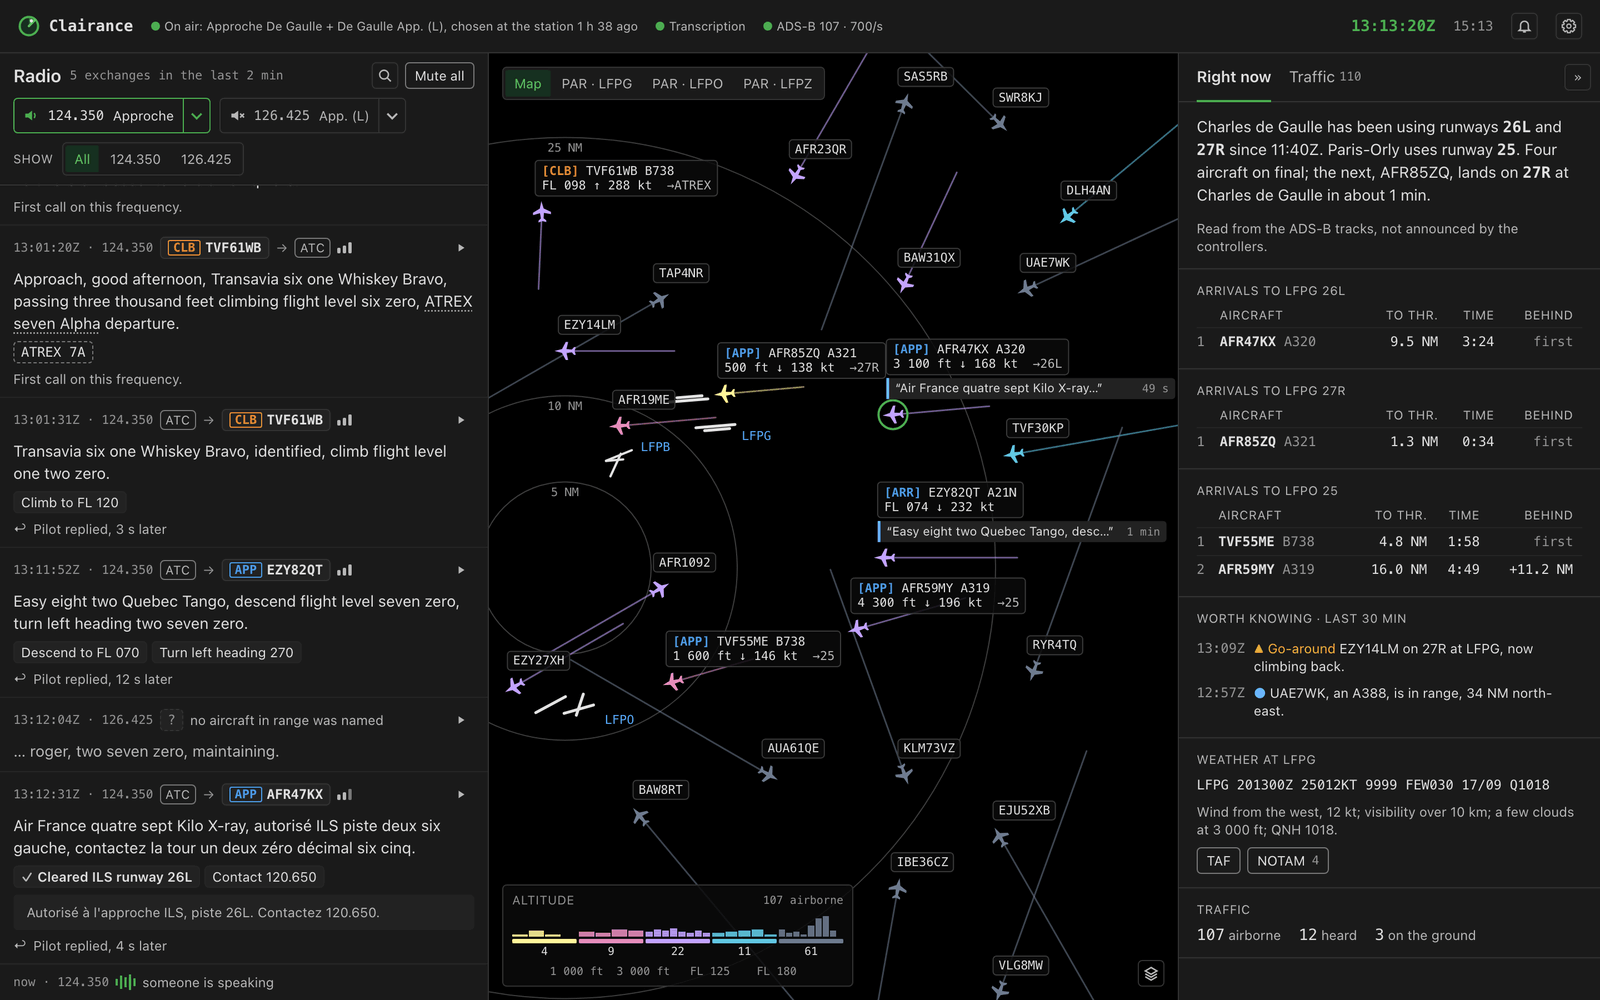
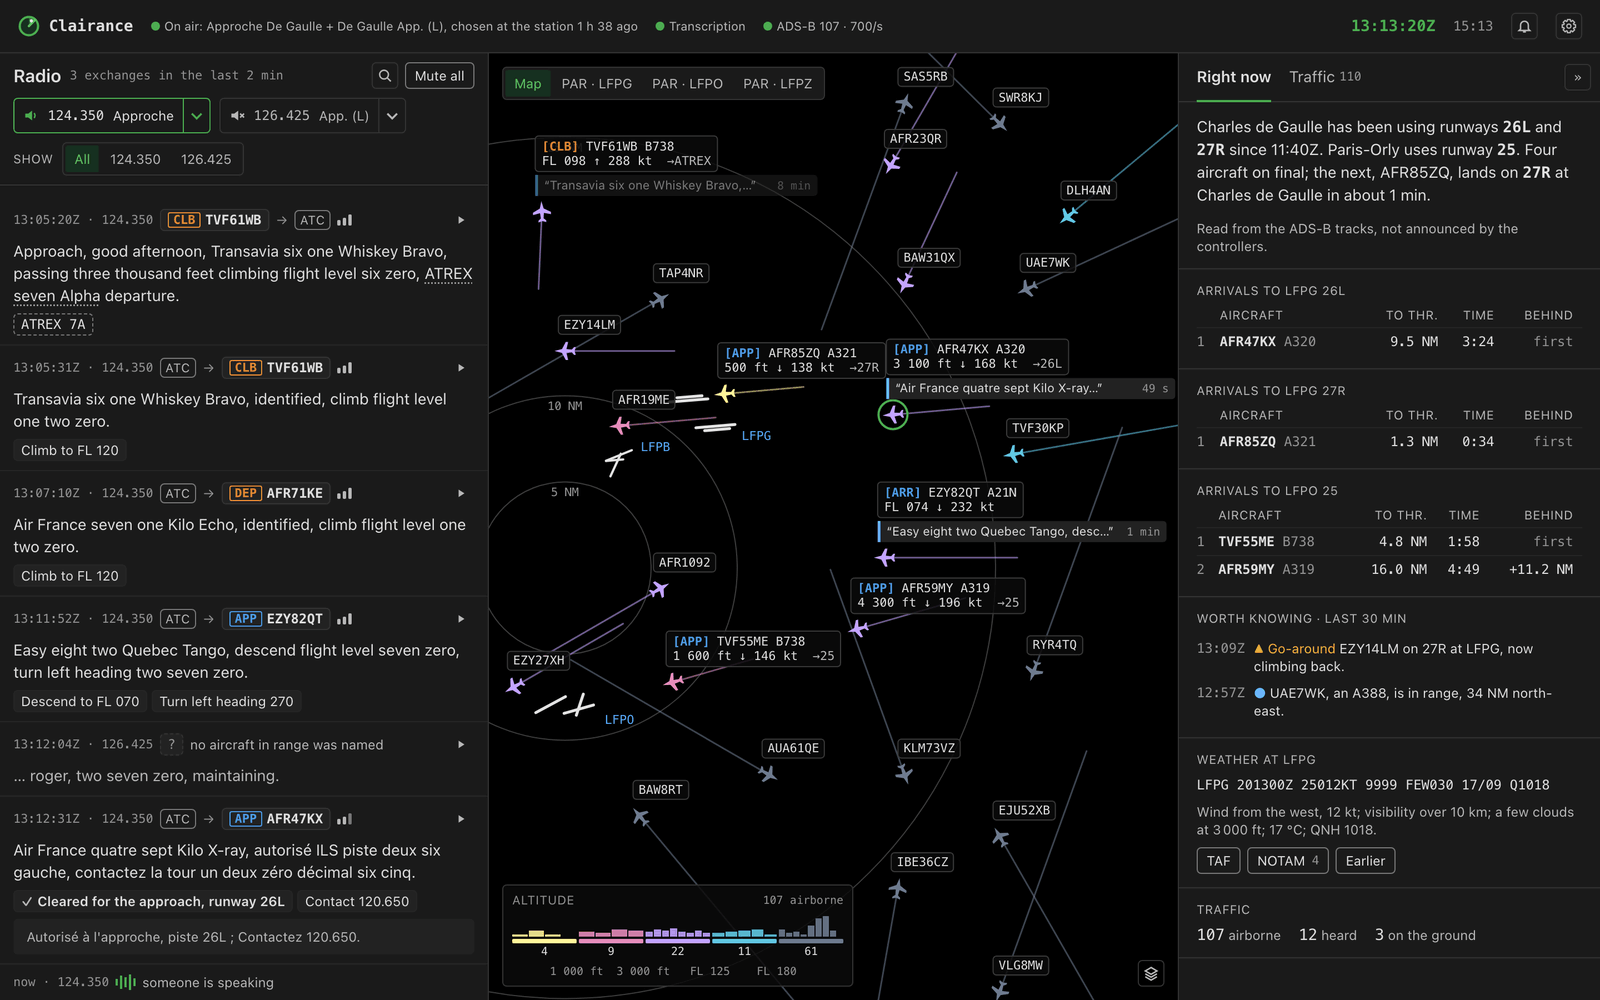
design: the README's images show only what the product writes
No "pilot replied" line nor "first call" (13/10 screens only); the
approach clearance as explain.go words it, the French joined by " ; ";
the story's lines as store/story.js tells them; the weather as
now/metar-plain.js reads it; the labels and message tags of the aircraft
heard in the last ten minutes, as the zoom tiers want; the phone shows
Radio and Right now. Every fixed text checked against www/ and explain.go.

diff --git a/tools/design/readme.py b/tools/design/readme.py
@@ -391,8 +391,7 @@ def traffic(selected=None):
     add('AFR59MY', 'A319', 'arr', 'APP', la, lo, 4300, '↓', 196, 254, show='full', field=('→25', ''))
     # departures
     add('TVF61WB', 'B738', 'dep', 'CLB', 49.205, 2.326, 9800, '↑', 288, 357, show='full', field=('→ATREX', ''),
-        trail=[(49.13, 2.321)],
-        )
+        trail=[(49.13, 2.321)], tag=('Transavia six one Whiskey Bravo, identified, climb flight level one two zero', '8 min', .55))
     add('AFR71KE', 'A320', 'dep', 'DEP', 48.79, 2.198, 9000, '↑', 305, 152, show='full' if selected == 'AFR71KE' else 'cs',
         field=('→OKASI', '+1'), selected=selected == 'AFR71KE',
         trail=None if selected == 'AFR71KE' else [(48.971, 2.112), (48.8185, 2.1867)])
@@ -400,7 +399,7 @@ def traffic(selected=None):
     add('EZY27XH', 'A320', 'dep', 'CLB', 48.745, 2.285, 3900, '↑', 220, 240)
     # passing through, from low to cruise
     for cs, typ, la, lo, ft, tr, kt, hdg in (
-            ('AFR23QR', 'A320', 49.24, 2.70, 11500, '↓', 280, 210), ('TVF30KP', 'B738', 48.97, 3.02, 13800, '↓', 300, 260),
+            ('AFR23QR', 'A320', 49.25, 2.84, 11500, '↓', 280, 210), ('TVF30KP', 'B738', 48.97, 3.02, 13800, '↓', 300, 260),
             ('DLH4AN', 'A20N', 49.20, 3.10, 16500, '↓', 310, 230), ('KLM73VZ', 'E190', 48.66, 2.86, 24000, '↑', 380, 160),
             ('RYR4TQ', 'B38M', 48.76, 3.05, 37000, '↔', 452, 200), ('SWR8KJ', 'A20N', 49.29, 3.00, 35000, '↔', 448, 135),
             ('BAW8RT', 'A320', 48.62, 2.47, 33000, '↔', 441, 320), ('UAE7WK', 'A388', 49.13, 3.04, 38000, '↔', 486, 245),
@@ -414,34 +413,34 @@ def traffic(selected=None):
 
 
 def thread_html(selected=None):
+    """The thread as the product draws it (www/index.html): no "pilot replied" line nor "first call" (13/10 screens only),
+    the instructions as internal/transcription/phraseology/explain.go words them, the French ones joined by " ; "."""
     sel = lambda cs: ' is-selected' if cs == selected else ''
     chip = E.chip
     W = E.WHEN
+    head = E.threadhead().replace('5 exchanges in the last 2 min', '3 exchanges in the last 2 min')
     return f'''<section class="cl-app__thread" aria-label="Radio">
-{E.threadhead()}
+{head}
 <div class="cl-app__bottom">
-<article class="cl-exchange{sel('AFR47KX')}">
-  <div class="cl-exchange__head">{W('12:58:31Z · 126.425')}{chip('ARR', 'arr', 'AFR47KX', sel('AFR47KX'))}<span class="cl-exchange__to">→</span><span class="cl-chip cl-chip--atc">ATC</span>{E.STR3}{E.PLAYB}</div>
-  <p class="cl-exchange__text" lang="fr">De Gaulle bonjour, Air France quatre sept Kilo X-ray, niveau un huit zéro en descente vers un cinq zéro.</p>
-  <div class="cl-exchange__explain">First call on this frequency.</div>
-</article>
 <article class="cl-exchange{sel('TVF61WB')}">
-  <div class="cl-exchange__head">{W('13:01:20Z · 124.350')}{chip('CLB', 'dep', 'TVF61WB', sel('TVF61WB'))}<span class="cl-exchange__to">→</span><span class="cl-chip cl-chip--atc">ATC</span>{E.STR3}{E.PLAYB}</div>
+  <div class="cl-exchange__head">{W('13:05:20Z · 124.350')}{chip('CLB', 'dep', 'TVF61WB', sel('TVF61WB'))}<span class="cl-exchange__to">→</span><span class="cl-chip cl-chip--atc">ATC</span>{E.STR3}{E.PLAYB}</div>
   <p class="cl-exchange__text">Approach, good afternoon, Transavia six one Whiskey Bravo, passing three thousand feet climbing flight level six zero, <span class="is-place">ATREX seven Alpha</span> departure.</p>
   <div class="cl-exchange__instr"><button class="cl-chip cl-chip--place">ATREX 7A</button></div>
-  <div class="cl-exchange__explain">First call on this frequency.</div>
 </article>
 <article class="cl-exchange{sel('TVF61WB')}">
-  <div class="cl-exchange__head">{W('13:01:31Z · 124.350')}<span class="cl-chip cl-chip--atc">ATC</span><span class="cl-exchange__to">→</span>{chip('CLB', 'dep', 'TVF61WB', sel('TVF61WB'))}{E.STR3}{E.PLAYB}</div>
+  <div class="cl-exchange__head">{W('13:05:31Z · 124.350')}<span class="cl-chip cl-chip--atc">ATC</span><span class="cl-exchange__to">→</span>{chip('CLB', 'dep', 'TVF61WB', sel('TVF61WB'))}{E.STR3}{E.PLAYB}</div>
   <p class="cl-exchange__text">Transavia six one Whiskey Bravo, identified, climb flight level one two zero.</p>
   <div class="cl-exchange__instr"><span class="cl-chip cl-chip--instr">Climb to FL 120</span></div>
-  <div class="cl-exchange__reply"><span>↩</span><span>Pilot replied, 3 s later</span></div>
+</article>
+<article class="cl-exchange{sel('AFR71KE')}">
+  <div class="cl-exchange__head">{W('13:07:10Z · 124.350')}<span class="cl-chip cl-chip--atc">ATC</span><span class="cl-exchange__to">→</span>{chip('DEP', 'dep', 'AFR71KE', sel('AFR71KE'))}{E.STR3}{E.PLAYB}</div>
+  <p class="cl-exchange__text">Air France seven one Kilo Echo, identified, climb flight level one two zero.</p>
+  <div class="cl-exchange__instr"><span class="cl-chip cl-chip--instr">Climb to FL 120</span></div>
 </article>
 <article class="cl-exchange{sel('EZY82QT')}">
   <div class="cl-exchange__head">{W('13:11:52Z · 124.350')}<span class="cl-chip cl-chip--atc">ATC</span><span class="cl-exchange__to">→</span>{chip('APP', 'arr', 'EZY82QT', sel('EZY82QT'))}{E.STR3}{E.PLAYB}</div>
   <p class="cl-exchange__text">Easy eight two Quebec Tango, descend flight level seven zero, turn left heading two seven zero.</p>
   <div class="cl-exchange__instr"><span class="cl-chip cl-chip--instr">Descend to FL 070</span><span class="cl-chip cl-chip--instr">Turn left heading 270</span></div>
-  <div class="cl-exchange__reply"><span>↩</span><span>Pilot replied, 12 s later</span></div>
 </article>
 <article class="cl-exchange is-unmatched">
   <div class="cl-exchange__head">{W('13:12:04Z · 126.425')}<span class="cl-chip cl-chip--callsign is-away">?</span><span class="cl-plain">no aircraft in range was named</span>{E.PLAYB}</div>
@@ -450,9 +449,8 @@ def thread_html(selected=None):
 <article class="cl-exchange{sel('AFR47KX')}" lang="fr">
   <div class="cl-exchange__head" lang="en">{W('13:12:31Z · 124.350')}<span class="cl-chip cl-chip--atc">ATC</span><span class="cl-exchange__to">→</span>{chip('APP', 'arr', 'AFR47KX', sel('AFR47KX'))}{E.STR2}{E.PLAYB}</div>
   <p class="cl-exchange__text">Air France quatre sept Kilo X-ray, autorisé ILS piste deux six gauche, contactez la tour un deux zéro décimal six cinq.</p>
-  <div class="cl-exchange__instr" lang="en"><span class="cl-chip cl-chip--instr cl-chip--clearance">Cleared ILS runway 26L</span><span class="cl-chip cl-chip--instr">Contact 120.650</span></div>
-  <div class="cl-exchange__explain cl-exchange__explain--boxed">Autorisé à l'approche ILS, piste 26L. Contactez 120.650.</div>
-  <div class="cl-exchange__reply" lang="en"><span>↩</span><span>Pilot replied, 4 s later</span></div>
+  <div class="cl-exchange__instr" lang="en"><span class="cl-chip cl-chip--instr cl-chip--clearance">Cleared for the approach, runway 26L</span><span class="cl-chip cl-chip--instr">Contact 120.650</span></div>
+  <div class="cl-exchange__explain cl-exchange__explain--boxed">Autorisé à l'approche, piste 26L ; Contactez 120.650.</div>
 </article>
 <article class="cl-exchange is-live">
   <div class="cl-exchange__head">{W('now · 124.350')}<span class="cl-level"><i style="height:6px"></i><i style="height:12px"></i><i style="height:9px"></i><i style="height:14px"></i><i style="height:7px"></i></span><span class="cl-plain">someone is speaking</span></div>
@@ -477,7 +475,7 @@ def column_now():
 <div class="cl-section"><span class="cl-label">Arrivals to LFPG 27R</span>{seq_table([('AFR85ZQ', 'A321', '1.3 NM', '0:34', 'first')])}</div>
 <div class="cl-section"><span class="cl-label">Arrivals to LFPO 25</span>{seq_table([('TVF55ME', 'B738', '4.8 NM', '1:58', 'first'), ('AFR59MY', 'A319', '16.0 NM', '4:49', '+11.2 NM')])}</div>
 <div class="cl-section"><span class="cl-label">Worth knowing · last 30 min</span><ul class="cl-events"><li><time>13:09Z</time><span><span class="cl-warn">▲ Go-around</span> EZY14LM on 27R at LFPG, now climbing back.</span></li><li><time>12:57Z</time><span><span class="is-info">●</span> UAE7WK, an A388, is in range, 34 NM north-east.</span></li></ul></div>
-<div class="cl-section"><span class="cl-label">Weather at LFPG</span><span class="cl-metar">LFPG 201300Z 25012KT 9999 FEW030 17/09 Q1018</span><span class="cl-metar__plain">Wind from the west, 12 kt; visibility over 10 km; a few clouds at 3 000 ft; QNH 1018.</span><span class="cl-row"><button class="cl-btn">TAF</button><button class="cl-btn">NOTAM <span class="cl-tabs__count">4</span></button></span></div>
+<div class="cl-section"><span class="cl-label">Weather at LFPG</span><span class="cl-metar">LFPG 201300Z 25012KT 9999 FEW030 17/09 Q1018</span><span class="cl-metar__plain">Wind from the west, 12\u00a0kt; visibility over 10\u00a0km; a few clouds at 3\u202f000\u00a0ft; 17\u00a0°C; QNH 1018.</span><span class="cl-row"><button class="cl-btn">TAF</button><button class="cl-btn">NOTAM <span class="cl-tabs__count">4</span></button><button class="cl-btn">Earlier</button></span></div>
 <div class="cl-section"><span class="cl-label">Traffic</span><div class="cl-stats"><span><b>107</b> airborne</span><span><b>12</b> heard</span><span><b>3</b> on the ground</span></div></div>
 </div>
 </aside>'''
@@ -498,11 +496,11 @@ def column_follow():
 </div>
 <div class="cl-tabs cl-tabs--inset" role="tablist"><button class="cl-tabs__tab" role="tab" aria-selected="true">Story</button><button class="cl-tabs__tab" role="tab" aria-selected="false">Details</button><button class="cl-tabs__tab" role="tab" aria-selected="false">Track <span class="cl-tabs__count">96</span></button><button class="cl-tabs__tab" role="tab" aria-selected="false">Nearby</button></div>'''
     body = '''<ol class="cl-story__events">
-  <li><time>13:01Z</time><i></i><span>Seen by the receiver on the ground at LFPG.</span></li>
-  <li><time>13:04Z</time><i></i><span>Departed runway 26R at LFPG.</span></li>
-  <li><time>13:07Z</time><i class="is-radio"></i><span>First call to Approche De Gaulle, passing 4 000 ft.</span></li>
-  <li><time>13:07Z</time><i class="is-radio"></i><span>Controller on 124.350: Climb to FL 120.</span></li>
-  <li><time>13:13Z</time><i class="is-now"></i><span>Climbing through FL 090, 21 NM south-west of LFPG.</span></li>
+  <li><time>13:01Z</time><i></i><span>Seen by the receiver, on the ground, 13 NM north-east</span></li>
+  <li><time>13:04Z</time><i></i><span>Departed runway 26R at LFPG</span></li>
+  <li><time>13:04Z</time><i></i><span>Departure at LFPG</span></li>
+  <li><time>13:07Z</time><i class="is-radio"></i><span>Pilot on 124.350</span></li>
+  <li><time>13:07Z</time><i class="is-now"></i><span>Controller on 124.350: Climb to FL 120</span></li>
 </ol>'''
     return f'<aside class="cl-app__column" aria-label="AFR71KE">{head}<div class="cl-app__scroll">{body}</div></aside>'
 
@@ -533,11 +531,11 @@ def follow():
     lines_q, _ = route_lines(g, pil, '26R', strong=False)
     lines_s, _ = route_lines(g, ok, '26R', strong=True)
     pts = route_points(g, [(ok, '26R'), (pil, '26R')], strong_names={'DOPAP', 'ODEBU', 'OKASI'})
-    keep = {'AFR71KE', 'EZY27XH', 'BAW8RT', 'AUA61QE', 'KLM73VZ', 'IBE36CZ', 'TVF55ME', 'AFR59MY'}
+    keep = {'AFR71KE', 'EZY27XH', 'BAW8RT', 'AUA61QE', 'KLM73VZ', 'IBE36CZ'}
     P = [p for p in traffic(selected='AFR71KE') if p.cs in keep]
     for p in P:
-        if p.cs != 'AFR71KE':
-            p.show = 'cs'
+        if p.cs == 'AFR71KE':
+            p.tag = ('Air France seven one Kilo Echo, identified, climb flight level one two zero', '6 min', .55)
     # its track since the runway, in the followed colour, with its levels a few minutes back
     trk = [THR[('LFPG', '26R')], (48.991, 2.465), (48.984, 2.346), (48.971, 2.112), (48.8185, 2.1867), (48.79, 2.198)]
     tp = [g.xy(*q) for q in trk]
@@ -568,7 +566,7 @@ def map_routes():
     add('AFR85ZQ', 'A321', 'arr', 'APP', la, lo, 500, '↓', 138, 265, show='full', field=('→27R', ''))
     la, lo = final('LFPG', '26L', 16.0, C26L)
     add('BAW31QX', 'A320', 'arr', 'APP', la, lo, 5200, '↓', 212, 265, show='full', field=('→26L/R', ''))
-    add('TVF61WB', 'B738', 'dep', 'CLB', 49.205, 2.326, 9800, '↑', 288, 357, show='full', field=('→ATREX', ''), trail=[(49.13, 2.321)])
+    add('TVF61WB', 'B738', 'dep', 'CLB', 49.205, 2.326, 9800, '↑', 288, 357, show='full', field=('→ATREX', ''), trail=[(49.13, 2.321)], tag=('Transavia six one Whiskey Bravo, identified, climb flight level one two zero', '8 min', .55))
     add('AFR19ME', 'A21N', 'dep', 'T/O', 48.9975, 2.44, 1300, '↑', 168, 265)
     add('EZY14LM', 'A320', 'dep', 'CLB', 49.07, 2.40, 3000, '↑', 190, 270)
     add('EZY82QT', 'A21N', 'arr', 'ARR', 48.90, 2.95, 7400, '↓', 232, 270)
@@ -591,19 +589,11 @@ def par():
 
 
 def phone():
-    g = Geo(48.985, 2.80, 20, w=390, h=700)
-    keep = {'AFR85ZQ', 'AFR47KX', 'EZY82QT', 'BAW31QX', 'AFR23QR', 'DLH4AN', 'AFR1092'}
-    P = [p for p in traffic() if p.cs in keep]
-    for p in P:
-        if p.cs not in ('AFR85ZQ', 'AFR47KX'):
-            p.show = 'cs'
-        if p.cs == 'AFR47KX':
-            p.tag = None
-    check(g, P, 'phone', ())
-    svg = f'<svg class="cl-sky__map" viewBox="0 0 390 700" preserveAspectRatio="xMidYMid slice">{rings(g, *STATION, radii=(10, 25)) + airports(g, ("LFPG", "LFPB")) + planes_svg(g, P)}</svg>'
+    """Radio and Right now: panes that read the same at any width (the phone's sky, under 24 NM, labels every aircraft in full)."""
     narrow = ('<div class="cl-threadhead"><div class="cl-threadhead__row">' + E.channel('124.350', 'Approche', '', on=True) + E.channel('126.425', 'App. (L)', '')
               + '</div></div><div class="cl-app__bottom">' + thread_html().split('<div class="cl-app__bottom">')[1].rsplit('</section>', 1)[0])
-    phones = E.phone('Radio', narrow) + E.phone('Sky', f'<section class="cl-app__sky" style="height: 100%;">{svg}</section>')
+    now = column_now().split('<div class="cl-app__scroll">', 1)[1].rsplit('</aside>', 1)[0]
+    phones = E.phone('Radio', narrow) + E.phone('Right now', f'<div class="cl-app__scroll">{now}')
     return page('Phone', '<div class="cl-row" style="padding: 24px; align-items: flex-start; gap: 32px;">' + phones + '</div>', width=880, height=900)
 
 
